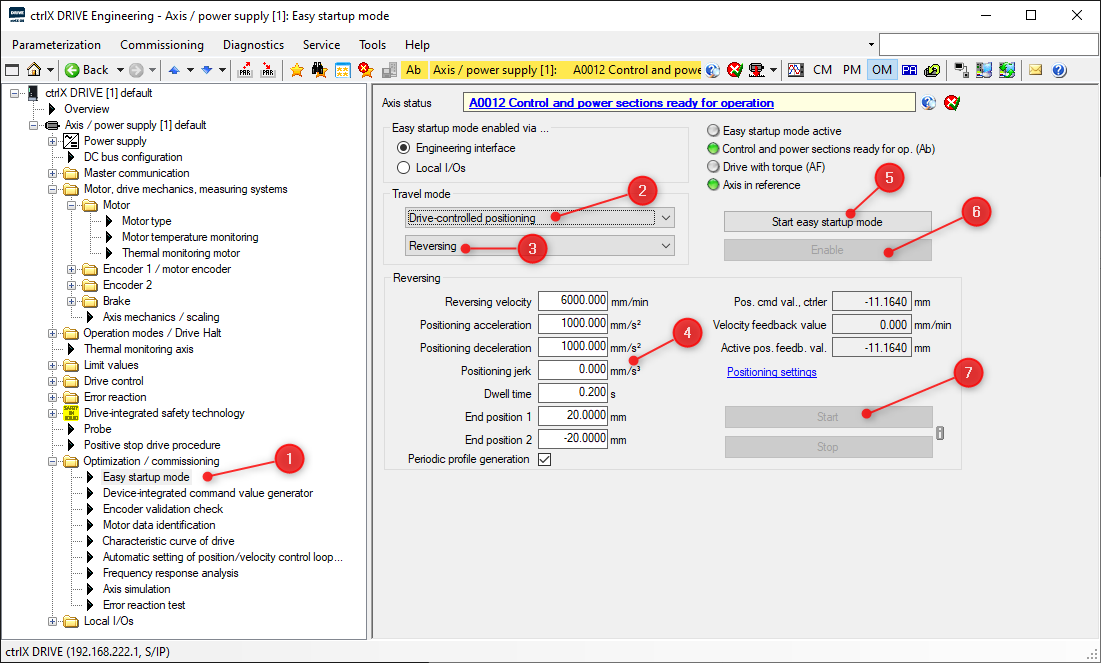
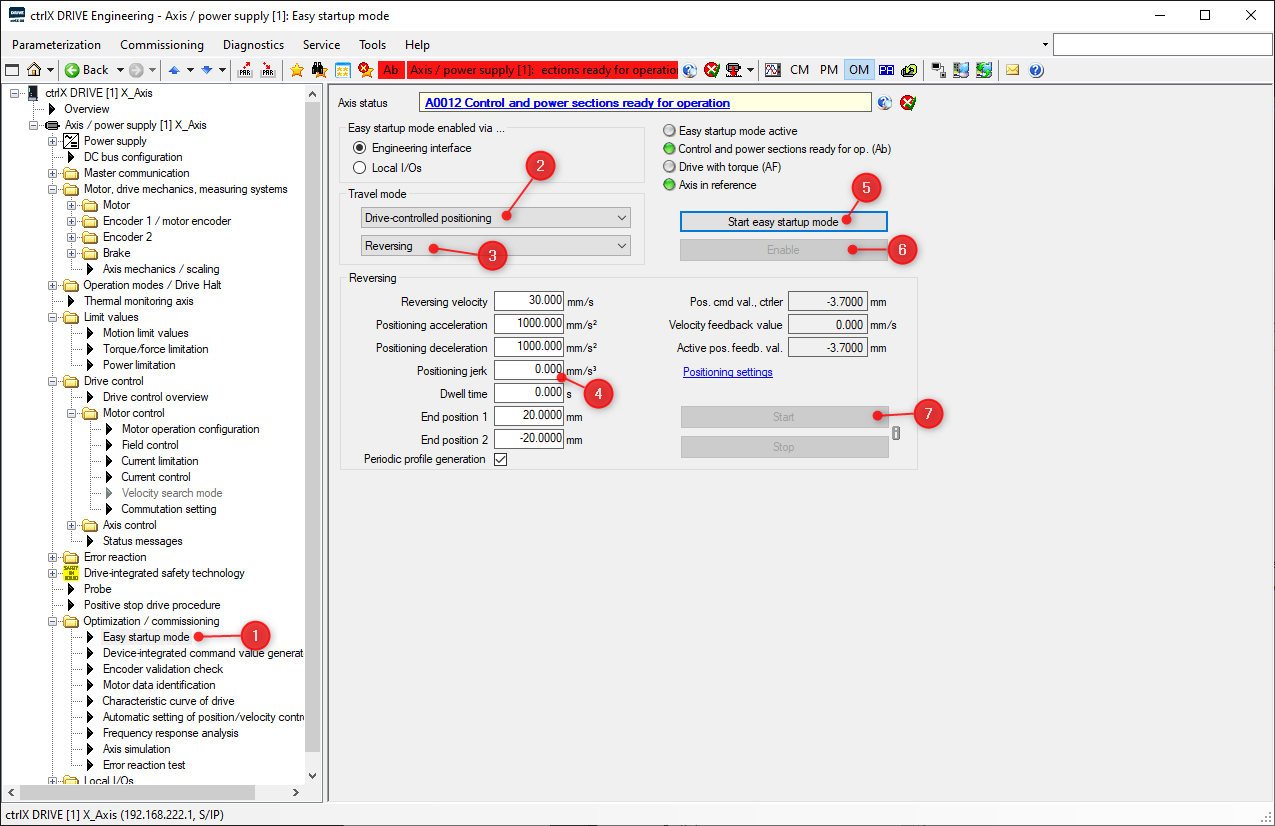
Correction unités mm/min par mm/sec et mise à jour figures

diff --git a/README_JobStart.md b/README_JobStart.md
@@ -119,7 +119,7 @@ Dans notre cas de figure, la position du codeur est convertie, entre autres, en 
 </figure>
 </div>
 
-Pour faciliter l'interprétation des résultats, nous modifions un paramètre afin que le système convertisse le couple du moteur en Force pour la lecture de l'effort linéaire en sortie de la vis à bille. **Attention à la vitesse**, ici on travaille en $\ [m/s]$.
+Pour faciliter l'interprétation des résultats, nous modifions un paramètre afin que le système convertisse le couple du moteur en Force pour la lecture de l'effort linéaire en sortie de la vis à bille. 
 
 <div style="text-align: center;">
 <figure>
@@ -245,7 +245,12 @@ Tracer la courbe de la position, vitesse, force et erreur de poursuite en foncti
 
 > L'intégrateur du régulateur de vitesse fait d'une certaine manière la même chose que ce que vous faites. **Il augmente la force en fonction du temps**. C'est une des raisons pour lesquelles un intégrateur est limité, sinon il augmenterait indéfiniment le courant sur le moteur. Dans le cas d'un axe qui serait bloqué le moteur chauffe rapidement, c'est souvent un signe du blocage mécanique.
 
-# Faire un tuning manuel est le comparer avec l’auto-tuning.
+<br>
+<br>
+
+## Mode **Velocity Control**
+
+## Tuning manuel et comparaison avec auto-tuning.
 
 <div style="text-align: center;">
 <figure>
@@ -269,7 +274,7 @@ Tracer la courbe de la position, vitesse, force et erreur de poursuite en foncti
 </div>
 
 ## Procédure
-### Réglage empirique
+### Réglage manuel
 Basé sur la méthode Ziegler et Nichols
 
 > Idéalement, faire tourner le moteur en **mode vitesse** à environ 20 rpm à l’aide du **Easy Startup Mode**. Si la mécanique ne le permet pas, travailler à vitesse nulle. **Comme nous avons un système linéaire à limite finie, nous travaillons à vitesse nulle**.
@@ -341,9 +346,10 @@ Est-ce que la valeur de la consigne de vitesse (Reversing velocity) est atteinte
 
 Quelle est la variation des oscillations de la vitesse en [mm/min] et en [%] en régime continu ?
 
+<br>
 
 
-## Mode **Position Control**,
+## Mode **Position Control**
  
 Commuter sur le mode **Position Control** et afficher les informations suivantes sur l'oscilloscope pendant 4 secondes :
 -   ``S-0-0084``	Force
@@ -355,8 +361,14 @@ Commuter sur le mode **Position Control** et afficher les informations suivantes
  
 Commenter vos résultats.
 
-## Comparer avec l'auto tuning
+<br>
+
+## Auto tuning
+
+
 Mémorisez vos valeurs de ``S-0-0100`` et ``S-0-0101`` et les comparer avec le tuning automatique.
+
+## Procédure
 
 <div style="text-align: center;">
 <figure>
